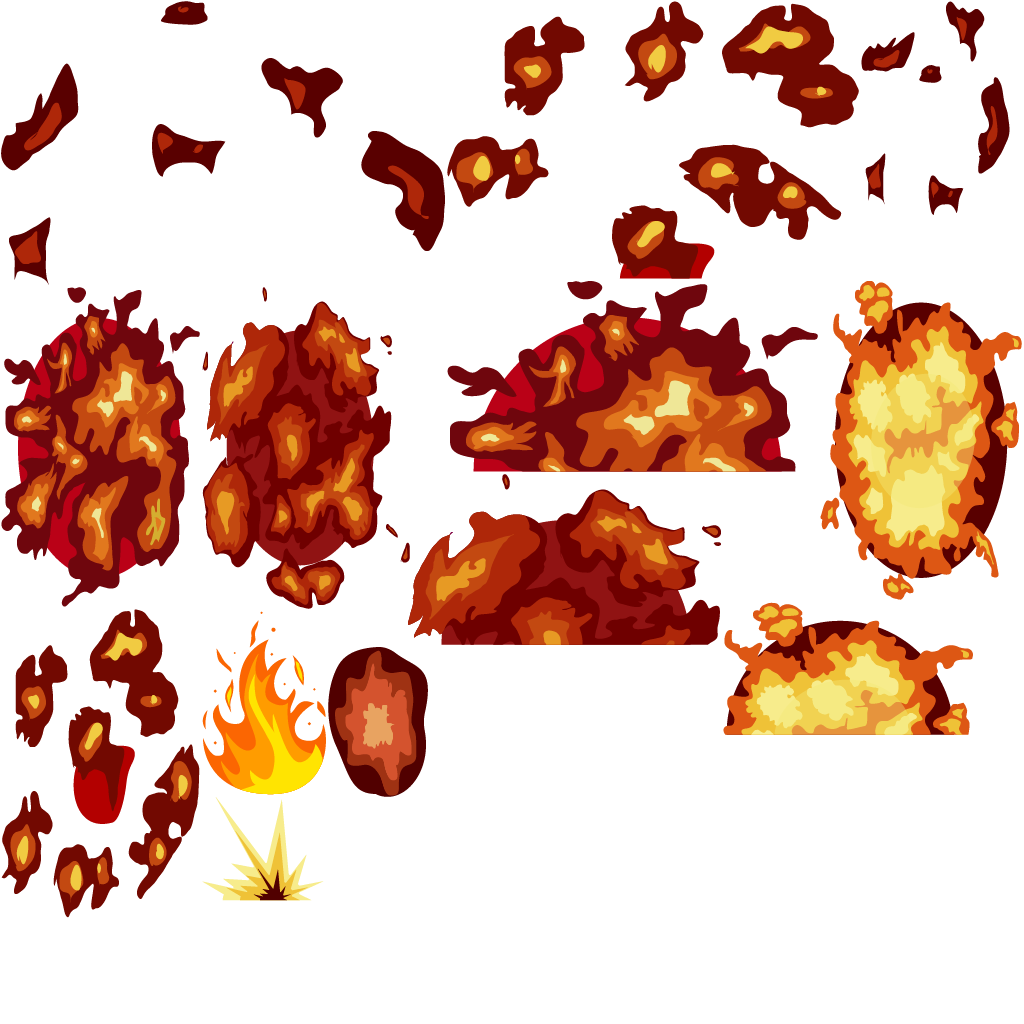
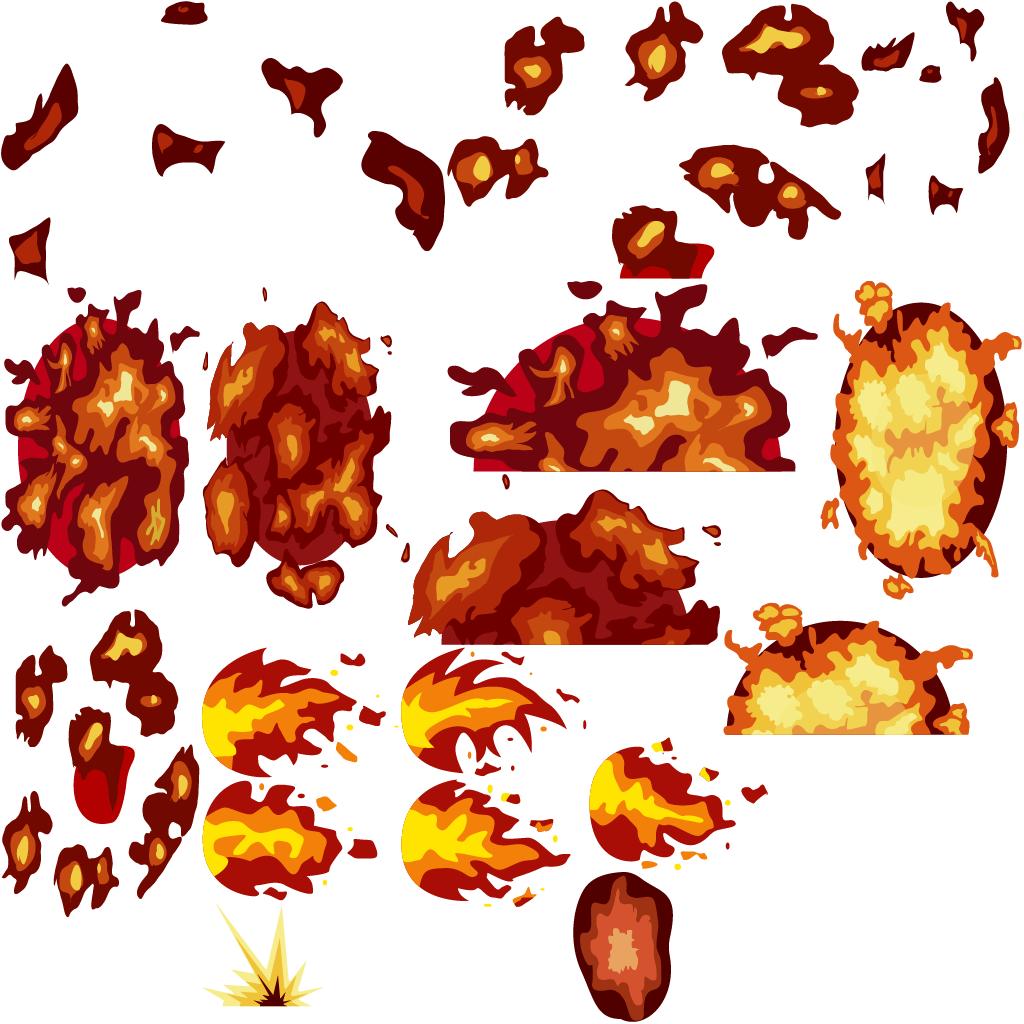
feature(Resources): update boss assets

Changed region(s): [[0.1875, 0.625, 0.75, 1.0]]

diff --git a/Classes/Weapon.cpp b/Classes/Weapon.cpp
@@ -269,8 +269,8 @@ void BossFireball::OnAttack() {
     proj->AddAnimator("fireball", "boss/boss_fireball");
     proj->InitializeAnimations({
         std::make_pair(Utils::EnumCast(Projectile::State::IDLE),        "walk"),       // sorry the illustrator is a little bit of an idiot
-        std::make_pair(Utils::EnumCast(Projectile::State::HIT_PLAYER),  "attack_2"),   // sorry the illustrator is a little bit of an idiot
-        std::make_pair(Utils::EnumCast(Projectile::State::HIT_GROUND),  "attack_1")   // sorry the illustrator is a little bit of an idiot
+        std::make_pair(Utils::EnumCast(Projectile::State::HIT_PLAYER),  "attack_1"),   // sorry the illustrator is a little bit of an idiot
+        std::make_pair(Utils::EnumCast(Projectile::State::HIT_GROUND),  "attack_2")   // sorry the illustrator is a little bit of an idiot
     });
     proj->setScale(scaleFactor);
 

diff --git a/Classes/AppDelegate.cpp b/Classes/AppDelegate.cpp
@@ -134,8 +134,8 @@ bool AppDelegate::applicationDidFinishLaunching() {
 
     // create a scene. it's an autorelease object
     constexpr auto id  { 4 };
-    // const auto scene = BossFightScene::createRootScene(id);
-    const auto scene = LevelScene::createRootScene(id);
+    const auto scene = BossFightScene::createRootScene(id);
+    // const auto scene = LevelScene::createRootScene(id);
     // run
     director->runWithScene(scene);
 
